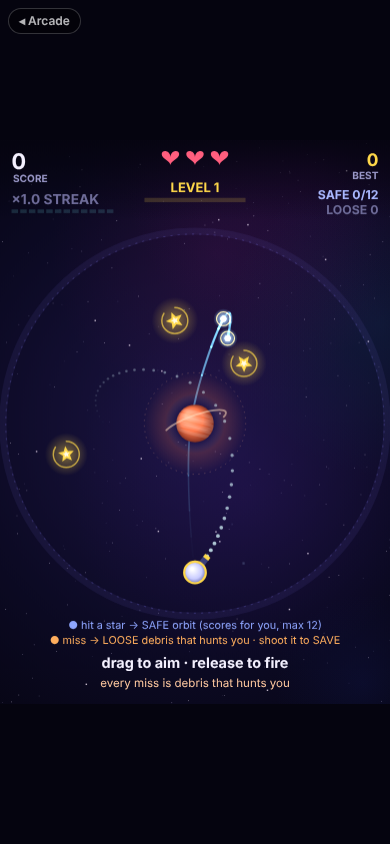
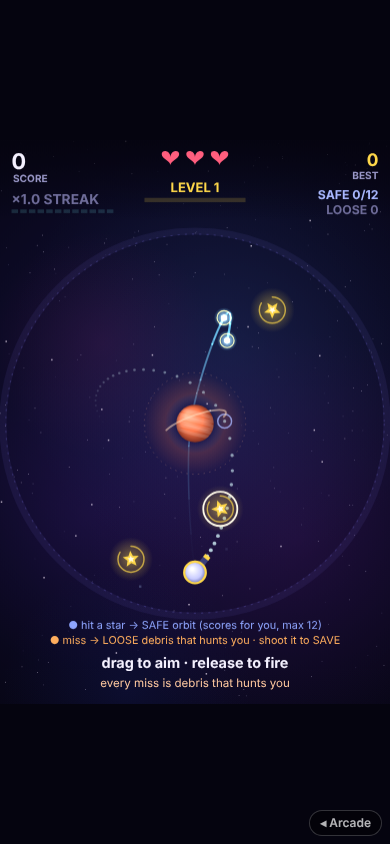
Move '◂ Arcade' pill to bottom-right (it covered SCORE label top-left); all 10 games re-pass checks
Claude-Session: https://claude.ai/code/session_01DFtzVURspk5R5pY7Xudhci

diff --git a/games/magsumo.html b/games/magsumo.html
@@ -1008,6 +1008,6 @@ S.wait = true;           // the very first human screen waits for your first inp
 requestAnimationFrame(frame);
 })();
 </script>
-<a href="../index.html" id="funlab-home" aria-label="Back to the Fun Lab arcade" style="position:fixed;top:calc(8px + env(safe-area-inset-top,0px));left:calc(8px + env(safe-area-inset-left,0px));z-index:10;font:600 12px/1 system-ui,-apple-system,sans-serif;color:#fff;background:rgba(0,0,0,.5);border:1px solid rgba(255,255,255,.28);border-radius:999px;padding:6px 10px;text-decoration:none;opacity:.7">&#9666; Arcade</a>
+<a href="../index.html" id="funlab-home" aria-label="Back to the Fun Lab arcade" style="position:fixed;bottom:calc(8px + env(safe-area-inset-bottom,0px));right:calc(8px + env(safe-area-inset-right,0px));z-index:10;font:600 12px/1 system-ui,-apple-system,sans-serif;color:#fff;background:rgba(0,0,0,.5);border:1px solid rgba(255,255,255,.28);border-radius:999px;padding:6px 10px;text-decoration:none;opacity:.7">&#9666; Arcade</a>
 </body>
 </html>

diff --git a/games/pipwalk.html b/games/pipwalk.html
@@ -1836,6 +1836,6 @@ addEventListener('hashchange', () => { if (S.over || S.turns === 0) startRun(loc
 requestAnimationFrame(frame);
 })();
 </script>
-<a href="../index.html" id="funlab-home" aria-label="Back to the Fun Lab arcade" style="position:fixed;top:calc(8px + env(safe-area-inset-top,0px));left:calc(8px + env(safe-area-inset-left,0px));z-index:10;font:600 12px/1 system-ui,-apple-system,sans-serif;color:#fff;background:rgba(0,0,0,.5);border:1px solid rgba(255,255,255,.28);border-radius:999px;padding:6px 10px;text-decoration:none;opacity:.7">&#9666; Arcade</a>
+<a href="../index.html" id="funlab-home" aria-label="Back to the Fun Lab arcade" style="position:fixed;bottom:calc(8px + env(safe-area-inset-bottom,0px));right:calc(8px + env(safe-area-inset-right,0px));z-index:10;font:600 12px/1 system-ui,-apple-system,sans-serif;color:#fff;background:rgba(0,0,0,.5);border:1px solid rgba(255,255,255,.28);border-radius:999px;padding:6px 10px;text-decoration:none;opacity:.7">&#9666; Arcade</a>
 </body>
 </html>

diff --git a/games/spellsnake.html b/games/spellsnake.html
@@ -912,6 +912,6 @@ reset(Date.now() & 0x7fffffff, false);
 requestAnimationFrame(frame);
 })();
 </script>
-<a href="../index.html" id="funlab-home" aria-label="Back to the Fun Lab arcade" style="position:fixed;top:calc(8px + env(safe-area-inset-top,0px));left:calc(8px + env(safe-area-inset-left,0px));z-index:10;font:600 12px/1 system-ui,-apple-system,sans-serif;color:#fff;background:rgba(0,0,0,.5);border:1px solid rgba(255,255,255,.28);border-radius:999px;padding:6px 10px;text-decoration:none;opacity:.7">&#9666; Arcade</a>
+<a href="../index.html" id="funlab-home" aria-label="Back to the Fun Lab arcade" style="position:fixed;bottom:calc(8px + env(safe-area-inset-bottom,0px));right:calc(8px + env(safe-area-inset-right,0px));z-index:10;font:600 12px/1 system-ui,-apple-system,sans-serif;color:#fff;background:rgba(0,0,0,.5);border:1px solid rgba(255,255,255,.28);border-radius:999px;padding:6px 10px;text-decoration:none;opacity:.7">&#9666; Arcade</a>
 </body>
 </html>

diff --git a/games/mazewright.html b/games/mazewright.html
@@ -1063,6 +1063,6 @@ reset(Date.now() & 0x7fffffff);
 requestAnimationFrame(frame);
 })();
 </script>
-<a href="../index.html" id="funlab-home" aria-label="Back to the Fun Lab arcade" style="position:fixed;top:calc(8px + env(safe-area-inset-top,0px));left:calc(8px + env(safe-area-inset-left,0px));z-index:10;font:600 12px/1 system-ui,-apple-system,sans-serif;color:#fff;background:rgba(0,0,0,.5);border:1px solid rgba(255,255,255,.28);border-radius:999px;padding:6px 10px;text-decoration:none;opacity:.7">&#9666; Arcade</a>
+<a href="../index.html" id="funlab-home" aria-label="Back to the Fun Lab arcade" style="position:fixed;bottom:calc(8px + env(safe-area-inset-bottom,0px));right:calc(8px + env(safe-area-inset-right,0px));z-index:10;font:600 12px/1 system-ui,-apple-system,sans-serif;color:#fff;background:rgba(0,0,0,.5);border:1px solid rgba(255,255,255,.28);border-radius:999px;padding:6px 10px;text-decoration:none;opacity:.7">&#9666; Arcade</a>
 </body>
 </html>

diff --git a/games/compound.html b/games/compound.html
@@ -929,6 +929,6 @@ reset(Date.now() & 0x7fffffff);
 requestAnimationFrame(frame);
 })();
 </script>
-<a href="../index.html" id="funlab-home" aria-label="Back to the Fun Lab arcade" style="position:fixed;top:calc(8px + env(safe-area-inset-top,0px));left:calc(8px + env(safe-area-inset-left,0px));z-index:10;font:600 12px/1 system-ui,-apple-system,sans-serif;color:#fff;background:rgba(0,0,0,.5);border:1px solid rgba(255,255,255,.28);border-radius:999px;padding:6px 10px;text-decoration:none;opacity:.7">&#9666; Arcade</a>
+<a href="../index.html" id="funlab-home" aria-label="Back to the Fun Lab arcade" style="position:fixed;bottom:calc(8px + env(safe-area-inset-bottom,0px));right:calc(8px + env(safe-area-inset-right,0px));z-index:10;font:600 12px/1 system-ui,-apple-system,sans-serif;color:#fff;background:rgba(0,0,0,.5);border:1px solid rgba(255,255,255,.28);border-radius:999px;padding:6px 10px;text-decoration:none;opacity:.7">&#9666; Arcade</a>
 </body>
 </html>

diff --git a/games/junkorbit.html b/games/junkorbit.html
@@ -916,6 +916,6 @@ reset(Date.now() & 0x7fffffff);
 requestAnimationFrame(frame);
 })();
 </script>
-<a href="../index.html" id="funlab-home" aria-label="Back to the Fun Lab arcade" style="position:fixed;top:calc(8px + env(safe-area-inset-top,0px));left:calc(8px + env(safe-area-inset-left,0px));z-index:10;font:600 12px/1 system-ui,-apple-system,sans-serif;color:#fff;background:rgba(0,0,0,.5);border:1px solid rgba(255,255,255,.28);border-radius:999px;padding:6px 10px;text-decoration:none;opacity:.7">&#9666; Arcade</a>
+<a href="../index.html" id="funlab-home" aria-label="Back to the Fun Lab arcade" style="position:fixed;bottom:calc(8px + env(safe-area-inset-bottom,0px));right:calc(8px + env(safe-area-inset-right,0px));z-index:10;font:600 12px/1 system-ui,-apple-system,sans-serif;color:#fff;background:rgba(0,0,0,.5);border:1px solid rgba(255,255,255,.28);border-radius:999px;padding:6px 10px;text-decoration:none;opacity:.7">&#9666; Arcade</a>
 </body>
 </html>

diff --git a/games/kickback.html b/games/kickback.html
@@ -828,6 +828,6 @@ reset(Date.now() & 0x7fffffff);
 requestAnimationFrame(frame);
 })();
 </script>
-<a href="../index.html" id="funlab-home" aria-label="Back to the Fun Lab arcade" style="position:fixed;top:calc(8px + env(safe-area-inset-top,0px));left:calc(8px + env(safe-area-inset-left,0px));z-index:10;font:600 12px/1 system-ui,-apple-system,sans-serif;color:#fff;background:rgba(0,0,0,.5);border:1px solid rgba(255,255,255,.28);border-radius:999px;padding:6px 10px;text-decoration:none;opacity:.7">&#9666; Arcade</a>
+<a href="../index.html" id="funlab-home" aria-label="Back to the Fun Lab arcade" style="position:fixed;bottom:calc(8px + env(safe-area-inset-bottom,0px));right:calc(8px + env(safe-area-inset-right,0px));z-index:10;font:600 12px/1 system-ui,-apple-system,sans-serif;color:#fff;background:rgba(0,0,0,.5);border:1px solid rgba(255,255,255,.28);border-radius:999px;padding:6px 10px;text-decoration:none;opacity:.7">&#9666; Arcade</a>
 </body>
 </html>

diff --git a/games/loopback.html b/games/loopback.html
@@ -697,6 +697,6 @@ reset(Date.now() & 0x7fffffff);
 requestAnimationFrame(frame);
 })();
 </script>
-<a href="../index.html" id="funlab-home" aria-label="Back to the Fun Lab arcade" style="position:fixed;top:calc(8px + env(safe-area-inset-top,0px));left:calc(8px + env(safe-area-inset-left,0px));z-index:10;font:600 12px/1 system-ui,-apple-system,sans-serif;color:#fff;background:rgba(0,0,0,.5);border:1px solid rgba(255,255,255,.28);border-radius:999px;padding:6px 10px;text-decoration:none;opacity:.7">&#9666; Arcade</a>
+<a href="../index.html" id="funlab-home" aria-label="Back to the Fun Lab arcade" style="position:fixed;bottom:calc(8px + env(safe-area-inset-bottom,0px));right:calc(8px + env(safe-area-inset-right,0px));z-index:10;font:600 12px/1 system-ui,-apple-system,sans-serif;color:#fff;background:rgba(0,0,0,.5);border:1px solid rgba(255,255,255,.28);border-radius:999px;padding:6px 10px;text-decoration:none;opacity:.7">&#9666; Arcade</a>
 </body>
 </html>

diff --git a/games/tiltwell.html b/games/tiltwell.html
@@ -980,6 +980,6 @@ reset(Date.now() & 0x7fffffff);
 requestAnimationFrame(frame);
 })();
 </script>
-<a href="../index.html" id="funlab-home" aria-label="Back to the Fun Lab arcade" style="position:fixed;top:calc(8px + env(safe-area-inset-top,0px));left:calc(8px + env(safe-area-inset-left,0px));z-index:10;font:600 12px/1 system-ui,-apple-system,sans-serif;color:#fff;background:rgba(0,0,0,.5);border:1px solid rgba(255,255,255,.28);border-radius:999px;padding:6px 10px;text-decoration:none;opacity:.7">&#9666; Arcade</a>
+<a href="../index.html" id="funlab-home" aria-label="Back to the Fun Lab arcade" style="position:fixed;bottom:calc(8px + env(safe-area-inset-bottom,0px));right:calc(8px + env(safe-area-inset-right,0px));z-index:10;font:600 12px/1 system-ui,-apple-system,sans-serif;color:#fff;background:rgba(0,0,0,.5);border:1px solid rgba(255,255,255,.28);border-radius:999px;padding:6px 10px;text-decoration:none;opacity:.7">&#9666; Arcade</a>
 </body>
 </html>

diff --git a/games/uptempo.html b/games/uptempo.html
@@ -930,6 +930,6 @@ reset(Date.now() & 0x7fffffff);
 requestAnimationFrame(frame);
 })();
 </script>
-<a href="../index.html" id="funlab-home" aria-label="Back to the Fun Lab arcade" style="position:fixed;top:calc(8px + env(safe-area-inset-top,0px));left:calc(8px + env(safe-area-inset-left,0px));z-index:10;font:600 12px/1 system-ui,-apple-system,sans-serif;color:#fff;background:rgba(0,0,0,.5);border:1px solid rgba(255,255,255,.28);border-radius:999px;padding:6px 10px;text-decoration:none;opacity:.7">&#9666; Arcade</a>
+<a href="../index.html" id="funlab-home" aria-label="Back to the Fun Lab arcade" style="position:fixed;bottom:calc(8px + env(safe-area-inset-bottom,0px));right:calc(8px + env(safe-area-inset-right,0px));z-index:10;font:600 12px/1 system-ui,-apple-system,sans-serif;color:#fff;background:rgba(0,0,0,.5);border:1px solid rgba(255,255,255,.28);border-radius:999px;padding:6px 10px;text-decoration:none;opacity:.7">&#9666; Arcade</a>
 </body>
 </html>
